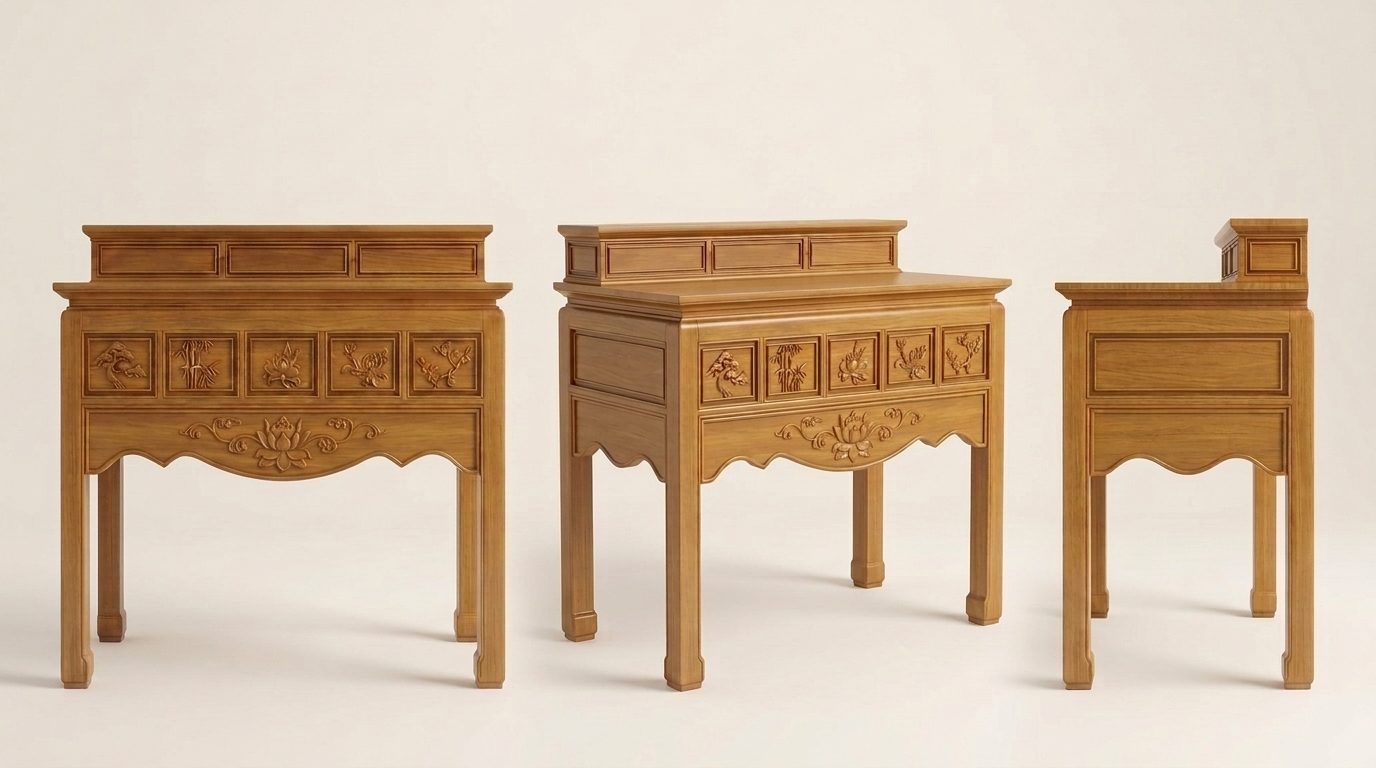
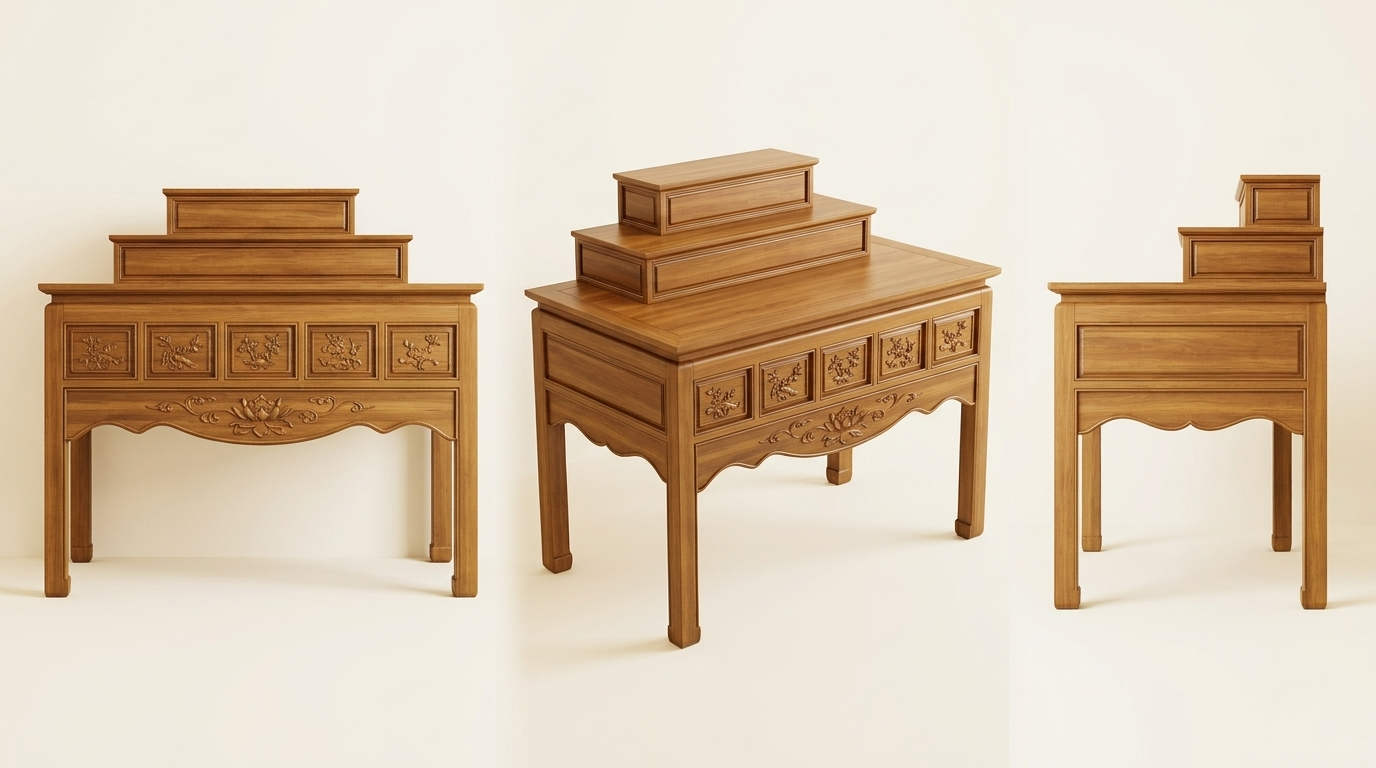
Fix standalone Da D6 altar pack to 3-tier Tam Cap (1.97m x 1.27m, 47cm Tam Cap) & remove 2-tier version

diff --git a/phong-tho-tang3.html b/phong-tho-tang3.html
@@ -1091,26 +1091,26 @@
     <!-- NEW TOP-MOST SECTION: BỘ ẢNH STUDIO RIÊNG BÀN THỜ ÁN GIAN Ô SA 5 Ô (DẠ D6) ĐỦ GÓC CHO THỢ MỘC (KHÔNG SẬP QUỲ) -->
     <section class="block" id="sec-ban-tho-rieng-da6-du-goc" style="border-color: rgba(52, 211, 153, 0.98); background: linear-gradient(180deg, rgba(6, 78, 59, 0.36), rgba(15, 21, 32, 0.99)); border-radius: 20px; padding: 28px 24px; margin-bottom: 22px;">
       <div class="section-hdr">
-        <span class="section-tag" style="background:rgba(16,185,129,0.28);border-color:rgba(52,211,153,0.98);color:#a7f3d0;">🪷 CHỐT BÀN THỜ RIÊNG CHO THỢ MỘC — PHƯƠNG ÁN DẠ D6 (ĐÃ TÁCH BỎ SẬP QUỲ)</span>
-        <h2 class="section-title">Bộ Ảnh Studio Riêng Bàn Thờ Án Gian Ô Sa 5 Ô Tứ Quý — <code>Dạ D6</code> Đủ Mọi Góc (<code>0°</code> • <code>45°</code> • <code>90°</code> + Bản Vẽ <code>6K</code>)</h2>
+        <span class="section-tag" style="background:rgba(16,185,129,0.28);border-color:rgba(52,211,153,0.98);color:#a7f3d0;">🪷 CHỐT BÀN THỜ RIÊNG CHO THỢ MỘC — TAM CẤP (3 CẤP) • DẠ D6 (ĐÃ TÁCH BỎ SẬP QUỲ)</span>
+        <h2 class="section-title">Bộ Ảnh Studio Riêng Bàn Thờ Tam Cấp Án Gian Ô Sa 5 Ô Tứ Quý — <code>Dạ D6</code> Đủ Mọi Góc (<code>1,97 m × 1,27 m</code> • Tam Cấp <code>47 cm</code>)</h2>
         <p class="section-sub">
-          Tách riêng <strong>100%</strong> chiếc <strong>Bàn Thờ Án Gian Ô Sa 5 Ô Tứ Quý (<code>1.970 × 1.070 × 1.270/1.480 mm</code> — Gỗ Gụ Lào Tự Nhiên PU mờ <code>15%</code>)</strong> với <strong><code>Dạ D6</code> đặc <code>40 mm</code> (<code>0%</code> đục lỗ)</strong> để anh gửi trực tiếp cho xưởng mộc soi từng góc mặt tiền, góc nghiêng <code>3/4</code>, mặt hông <code>90°</code>, vị trí đặt Nhị Cấp lùi sau (<code>380 mm</code>) và hốc giấu ổ cắm <code>S1 #2</code>:
+          Đã cập nhật chuẩn xác sang dáng <strong>Bàn Thờ TAM CẤP (`3` cấp)</strong> theo kích thước thợ báo: <strong>Bàn Dài <code>1,97 m</code> × Rộng/Sâu <code>1,27 m</code> (<code>1.970 × 1.270 mm</code>) • Phần Tam Cấp sau <code>47 cm</code> (<code>470 mm</code>) • Chừa mặt Cấp 1 trước rộng <code>80 cm</code> (<code>800 mm</code>)</strong>, dùng <strong><code>Dạ D6</code> đặc <code>40 mm</code> (<code>0%</code> đục lỗ)</strong> bằng Gỗ Gụ Lào tự nhiên PU mờ <code>15%</code> và <strong>đã xóa hoàn toàn bản 2 cấp sai trước đó</strong> để tránh nhầm khi gửi xưởng:
         </p>
       </div>
 
       <!-- FULL-WIDTH 6000x4200 PX ALL-IN-ONE MULTI-ANGLE CARPENTER PACK -->
       <article class="media-card" style="border-color:rgba(52,211,153,0.98);margin-bottom:20px;">
         <div class="media-hdr">
-          <h3>📐 Tấm Tổng Hợp Gửi Thợ Mộc <code>6K</code> (`6000 × 4200 px`): Bàn Thờ Riêng <code>Dạ D6</code> Đủ <code>4</code> Góc &amp; Kích Thước Chuẩn Lỗ Ban</h3>
+          <h3>📐 Tấm Tổng Hợp Gửi Thợ Mộc <code>6K</code> (`6000 × 4200 px`): Bàn Thờ Riêng Tam Cấp <code>Dạ D6</code> Đủ <code>4</code> Góc (<code>1,97m × 1,27m</code> • Tam Cấp <code>47cm</code>)</h3>
           <div class="btn-group">
-            <button type="button" class="btn" onclick="openModal('assets/tang3_phong_tho_ban_tho_rieng_da6_du_4_goc_6k.png', 'Tấm tổng hợp 6K (6000 × 4200 px) chỉ riêng Bàn Thờ Án Gian Ô Sa 5 Ô Tứ Quý Dạ D6: Chính diện 0°, Phối cảnh nghiêng 3/4 (45°) & Mặt hông 90°, Hình chiếu hông 90° & Mặt bằng 2 bậc (1.970 × 1.070 mm) kèm cận cảnh mẫu Dạ D6 0% lỗ thủng gửi thợ mộc')">🔍 Zoom 1:1 Hồ Sơ 6K</button>
-            <a class="btn celadon" href="assets/tang3_phong_tho_ban_tho_rieng_da6_du_4_goc_6k.png" download="HoSo_6K_BanThoRieng_DaD6_Du4Goc_ThoMoc.png">⬇ Tải Tấm 6K Đủ 4 Góc PNG</a>
+            <button type="button" class="btn" onclick="openModal('assets/tang3_phong_tho_ban_tho_rieng_da6_du_4_goc_6k.png', 'Tấm tổng hợp 6K (6000 × 4200 px) chỉ riêng Bàn Thờ Tam Cấp (3 cấp) Án Gian Ô Sa 5 Ô Tứ Quý Dạ D6 theo kích thước thợ báo: Dài 1,97m × Rộng 1,27m (1.970 × 1.270 mm), Phần Tam Cấp 47 cm (470 mm), chừa mặt Cấp 1 trước 80 cm (800 mm), Gỗ Gụ Lào tự nhiên PU mờ 15%, 0% đục lỗ')">🔍 Zoom 1:1 Hồ Sơ 6K</button>
+            <a class="btn celadon" href="assets/tang3_phong_tho_ban_tho_rieng_da6_du_4_goc_6k.png" download="HoSo_6K_BanThoRieng_TamCap_1m97x1m27_DaD6_Du4Goc.png">⬇ Tải Tấm 6K Đủ 4 Góc PNG</a>
           </div>
         </div>
         <div class="media-img-wrap">
           <img
             src="assets/tang3_phong_tho_ban_tho_rieng_da6_du_4_goc_6k.png"
-            alt="Tấm tổng hợp 6K 6000x4200 px hồ sơ gửi thợ mộc riêng bàn thờ Án Gian Ô Sa 5 ô Tứ Quý Dạ D6 đủ 4 góc không có Sập Quỳ"
+            alt="Tấm tổng hợp 6K 6000x4200 px hồ sơ gửi thợ mộc riêng bàn thờ Tam Cấp 3 cấp Án Gian Ô Sa 5 ô Tứ Quý Dạ D6 dài 1,97m rộng 1,27m phần tam cấp 47cm"
             width="6000"
             height="4200"
             fetchpriority="high"
@@ -1118,7 +1118,7 @@
           />
         </div>
         <p class="media-caption">
-          <strong>Chỉ cần gửi 1 tấm <code>6K</code> này cho thợ mộc là đủ thi công:</strong> Gồm ảnh Studio <code>0°</code> cỡ lớn + ảnh góc nghiêng <code>45°</code> &amp; hông <code>90°</code> + hình chiếu kỹ thuật <code>1.970 × 1.070 × 1.270/1.480 mm</code> (Nhị cấp sâu <code>380 mm</code>, mặt thờ sâu <code>690 mm</code>, hốc giấu ổ cắm <code>Y=950</code>) + cận cảnh <code>Dạ D6</code>.
+          <strong>Chỉ cần gửi 1 tấm <code>6K</code> này cho thợ mộc là đủ thi công:</strong> Đầy đủ <code>03</code> góc ảnh Studio Tam Cấp + hình chiếu kỹ thuật <code>1.970 × 1.270 mm</code> (Phần Tam Cấp `Cấp 2 + Cấp 3` sâu <code>470 mm / 47 cm</code>, chừa mặt Cấp 1 trước <code>800 mm / 80 cm</code>, hốc giấu ổ cắm <code>Y=950</code>) + cận cảnh <code>Dạ D6</code>.
         </p>
       </article>
 
@@ -1126,60 +1126,60 @@
       <div class="render-grid" style="margin-bottom:20px;">
         <article class="media-card" style="border-color:rgba(250,204,21,0.95);">
           <div class="media-hdr">
-            <h3>🪵 Ảnh Studio #17 — Riêng Bàn Thờ <code>Dạ D6</code> Góc Chính Diện <code>0°</code> Cỡ Lớn (Soi Nét Đục)</h3>
+            <h3>🪵 Ảnh Studio #17 — Riêng Bàn Thờ Tam Cấp <code>Dạ D6</code> Góc Chính Diện <code>0°</code> Cỡ Lớn (Đủ <code>3</code> Cấp)</h3>
             <div class="btn-group">
-              <button type="button" class="btn" onclick="openModal('assets/17_studio_rieng_ban_tho_da6_chinh_dien_0do_co_lon.jpg', 'Ảnh Studio 17 — Chính diện 0° cỡ lớn chỉ riêng Bàn Thờ Án Gian Ô Sa 5 Ô Tứ Quý (Dạ D6 đặc 40mm 0% đục lỗ, 2 mũi vén nhọn, chỉ bo mép 6mm, Đóa Sen Đại & Mây Cuốn tập trung ở tâm, 2 cánh trơn mịn)')">🔍 Phóng to 0°</button>
-              <a class="btn celadon" href="assets/17_studio_rieng_ban_tho_da6_chinh_dien_0do_co_lon.jpg" download="17_Studio_BanThoRieng_DaD6_ChinhDien_0Do.jpg">⬇ Tải Ảnh 17</a>
+              <button type="button" class="btn" onclick="openModal('assets/17_studio_rieng_ban_tho_da6_chinh_dien_0do_co_lon.jpg', 'Ảnh Studio 17 — Chính diện 0° cỡ lớn chỉ riêng Bàn Thờ Tam Cấp (3 cấp: Cấp 1 + Cấp 2 + Cấp 3) Án Gian Ô Sa 5 Ô Tứ Quý (1,97m × 1,27m, Tam cấp 47cm), Dạ D6 đặc 40mm 0% đục lỗ, Đóa Sen Đại & Mây Cuốn tập trung ở tâm')">🔍 Phóng to 0°</button>
+              <a class="btn celadon" href="assets/17_studio_rieng_ban_tho_da6_chinh_dien_0do_co_lon.jpg" download="17_Studio_BanThoTamCap_DaD6_ChinhDien_0Do.jpg">⬇ Tải Ảnh 17</a>
             </div>
           </div>
           <div class="media-img-wrap">
             <img
               src="assets/17_studio_rieng_ban_tho_da6_chinh_dien_0do_co_lon.jpg"
-              alt="Ảnh Studio 17 chính diện 0 độ cỡ lớn chỉ riêng bàn thờ Án Gian Ô Sa 5 ô Tứ Quý Dạ D6 gỗ Gụ Lào tự nhiên"
+              alt="Ảnh Studio 17 chính diện 0 độ cỡ lớn chỉ riêng bàn thờ Tam Cấp 3 cấp Án Gian Ô Sa 5 ô Tứ Quý Dạ D6 gỗ Gụ Lào tự nhiên"
               width="1376"
               height="768"
               loading="lazy"
               onclick="openModal(this.src, this.alt)"
             />
           </div>
-          <p class="media-caption">Phóng to <code>85%</code> khung hình để bác thợ cả soi chuẩn từng lá <strong><code>5</code> Ô Tứ Quý (Tùng–Trúc–Sen–Cúc–Mai)</strong>, <code>2</code> mũi vén nhọn đối xứng và độ nổi của <strong>Đóa Sen Đại + Mây Cuốn</strong> giữa dạ.</p>
+          <p class="media-caption">Hiện rõ trọn <strong><code>3</code> bậc Tam Cấp (<code>Cấp 1</code> mặt bàn chính → <code>Cấp 2</code> bậc giữa → <code>Cấp 3</code> bậc đỉnh)</strong>, <code>5</code> Ô Tứ Quý (<code>Tùng–Trúc–Sen–Cúc–Mai</code>) và <strong><code>Dạ D6</code> Sen Đại tâm, 2 cánh trơn</strong>.</p>
         </article>
 
         <article class="media-card" style="border-color:rgba(245,158,11,0.95);">
           <div class="media-hdr">
-            <h3>🪵 Ảnh Studio #18 — Riêng Bàn Thờ <code>Dạ D6</code> Góc Nghiêng <code>3/4 (45°)</code> &amp; Mặt Hông <code>90°</code></h3>
+            <h3>🪵 Ảnh Studio #18 — Riêng Bàn Thờ Tam Cấp <code>Dạ D6</code> Góc Nghiêng <code>3/4 (45°)</code> &amp; Mặt Hông <code>90°</code></h3>
             <div class="btn-group">
-              <button type="button" class="btn" onclick="openModal('assets/18_studio_rieng_ban_tho_da6_goc_nghieng_3_4_va_hong_90do.jpg', 'Ảnh Studio 18 — Góc nghiêng 3/4 (45°) bên trái và Mặt hông 90° bên phải của riêng Bàn Thờ Án Gian Ô Sa 5 Ô Dạ D6: thấy rõ 3 ô sa hông trơn sạch bụi, dạ hông lượn sóng bo chỉ và bậc Nhị cấp lùi sát tường sau')">🔍 Phóng to 45°/90°</button>
-              <a class="btn celadon" href="assets/18_studio_rieng_ban_tho_da6_goc_nghieng_3_4_va_hong_90do.jpg" download="18_Studio_BanThoRieng_DaD6_Goc3_4_Va_Hong90.jpg">⬇ Tải Ảnh 18</a>
+              <button type="button" class="btn" onclick="openModal('assets/18_studio_rieng_ban_tho_da6_goc_nghieng_3_4_va_hong_90do.jpg', 'Ảnh Studio 18 — Góc nghiêng 3/4 (45°) bên trái và Mặt hông 90° bên phải của riêng Bàn Thờ Tam Cấp 3 cấp Dạ D6 (1,97m × 1,27m, phần Tam cấp sâu 47cm, chừa mặt trước 80cm): thấy rõ 3 ô sa hông trơn, dạ hông lượn sóng bo chỉ và đủ 3 bậc Tam Cấp')">🔍 Phóng to 45°/90°</button>
+              <a class="btn celadon" href="assets/18_studio_rieng_ban_tho_da6_goc_nghieng_3_4_va_hong_90do.jpg" download="18_Studio_BanThoTamCap_DaD6_Goc3_4_Va_Hong90.jpg">⬇ Tải Ảnh 18</a>
             </div>
           </div>
           <div class="media-img-wrap">
             <img
               src="assets/18_studio_rieng_ban_tho_da6_goc_nghieng_3_4_va_hong_90do.jpg"
-              alt="Ảnh Studio 18 góc nghiêng 3/4 và góc mặt hông 90 độ của riêng bàn thờ Án Gian Ô Sa 5 ô Dạ D6"
+              alt="Ảnh Studio 18 góc nghiêng 3/4 và góc mặt hông 90 độ của riêng bàn thờ Tam Cấp 3 cấp Án Gian Ô Sa 5 ô Dạ D6 1,97m x 1,27m"
               width="1376"
               height="768"
               loading="lazy"
               onclick="openModal(this.src, this.alt)"
             />
           </div>
-          <p class="media-caption">Thấy rõ độ sâu <code>1.070 mm</code>, bậc Nhị Cấp (<code>sâu 380 mm</code>) đặt phẳng mép hậu, <strong><code>3</code> ô hông trơn</strong> đồng bộ khung mặt tiền và dạ hông lượn sóng chạy chỉ bo mép <code>100%</code> đặc kín.</p>
+          <p class="media-caption">Thấy rõ chiều rộng/sâu bàn <strong><code>1,27 m (1.270 mm)</code></strong>, <strong>phần Tam Cấp <code>47 cm (470 mm)</code></strong> giật <code>2</code> bậc lên ở phía sau (chừa mặt <code>Cấp 1</code> trước <code>80 cm</code>), <code>3</code> ô hông trơn &amp; dạ hông lượn sóng bo chỉ.</p>
         </article>
       </div>
 
       <!-- FULL-WIDTH MULTI-VIEW STUDIO PHOTO 16 (3 ANGLES SIDE-BY-SIDE IN 1 FRAME) -->
       <article class="media-card" style="border-color:rgba(56,189,248,0.92);">
         <div class="media-hdr">
-          <h3>🪵 Ảnh Studio #16 — Trọn <code>03</code> Góc Trên <code>01</code> Ảnh (<code>0° Chính Diện</code> • <code>45° Nghiêng 3/4</code> • <code>90° Hông Trơn 1 Pano</code>)</h3>
+          <h3>🪵 Ảnh Studio #16 — Trọn <code>03</code> Góc Trên <code>01</code> Ảnh Bàn Thờ Tam Cấp <code>Dạ D6</code> (<code>0°</code> • <code>45°</code> • <code>90°</code>)</h3>
           <div class="btn-group">
-            <button type="button" class="btn" onclick="openModal('assets/16_studio_rieng_ban_tho_da6_du_3_goc_tho_moc.jpg', 'Ảnh Studio 16 — 3 góc nhìn trên cùng 1 ảnh phông Studio sáng của riêng Bàn Thờ Án Gian Ô Sa 5 Ô Dạ D6 (trái 0°, giữa 45° 3/4, phải 90° với phương án 1 tấm Pano hông trơn đồng bộ)')">🔍 Phóng to 3 Góc</button>
-            <a class="btn celadon" href="assets/16_studio_rieng_ban_tho_da6_du_3_goc_tho_moc.jpg" download="16_Studio_BanThoRieng_DaD6_Du3Goc_Tren1Anh.jpg">⬇ Tải Ảnh 16</a>
+            <button type="button" class="btn" onclick="openModal('assets/16_studio_rieng_ban_tho_da6_du_3_goc_tho_moc.jpg', 'Ảnh Studio 16 — 3 góc nhìn trên cùng 1 ảnh phông Studio sáng của riêng Bàn Thờ Tam Cấp 3 cấp Án Gian Ô Sa 5 Ô Dạ D6 (trái 0°, giữa 45° nghiêng 3/4, phải 90° mặt hông đủ 3 bậc Tam Cấp 1,97m × 1,27m, Tam Cấp 47cm)')">🔍 Phóng to 3 Góc</button>
+            <a class="btn celadon" href="assets/16_studio_rieng_ban_tho_da6_du_3_goc_tho_moc.jpg" download="16_Studio_BanThoTamCap_DaD6_Du3Goc_Tren1Anh.jpg">⬇ Tải Ảnh 16</a>
           </div>
         </div>
         <div class="media-img-wrap">
           <img
             src="assets/16_studio_rieng_ban_tho_da6_du_3_goc_tho_moc.jpg"
-            alt="Ảnh Studio 16 tổng hợp 3 góc 0 độ, 45 độ và 90 độ trên cùng 1 khung hình của riêng bàn thờ Án Gian Ô Sa Dạ D6"
+            alt="Ảnh Studio 16 tổng hợp 3 góc 0 độ, 45 độ và 90 độ trên cùng 1 khung hình của riêng bàn thờ Tam Cấp 3 cấp Án Gian Ô Sa Dạ D6"
             width="1376"
             height="768"
             loading="lazy"
